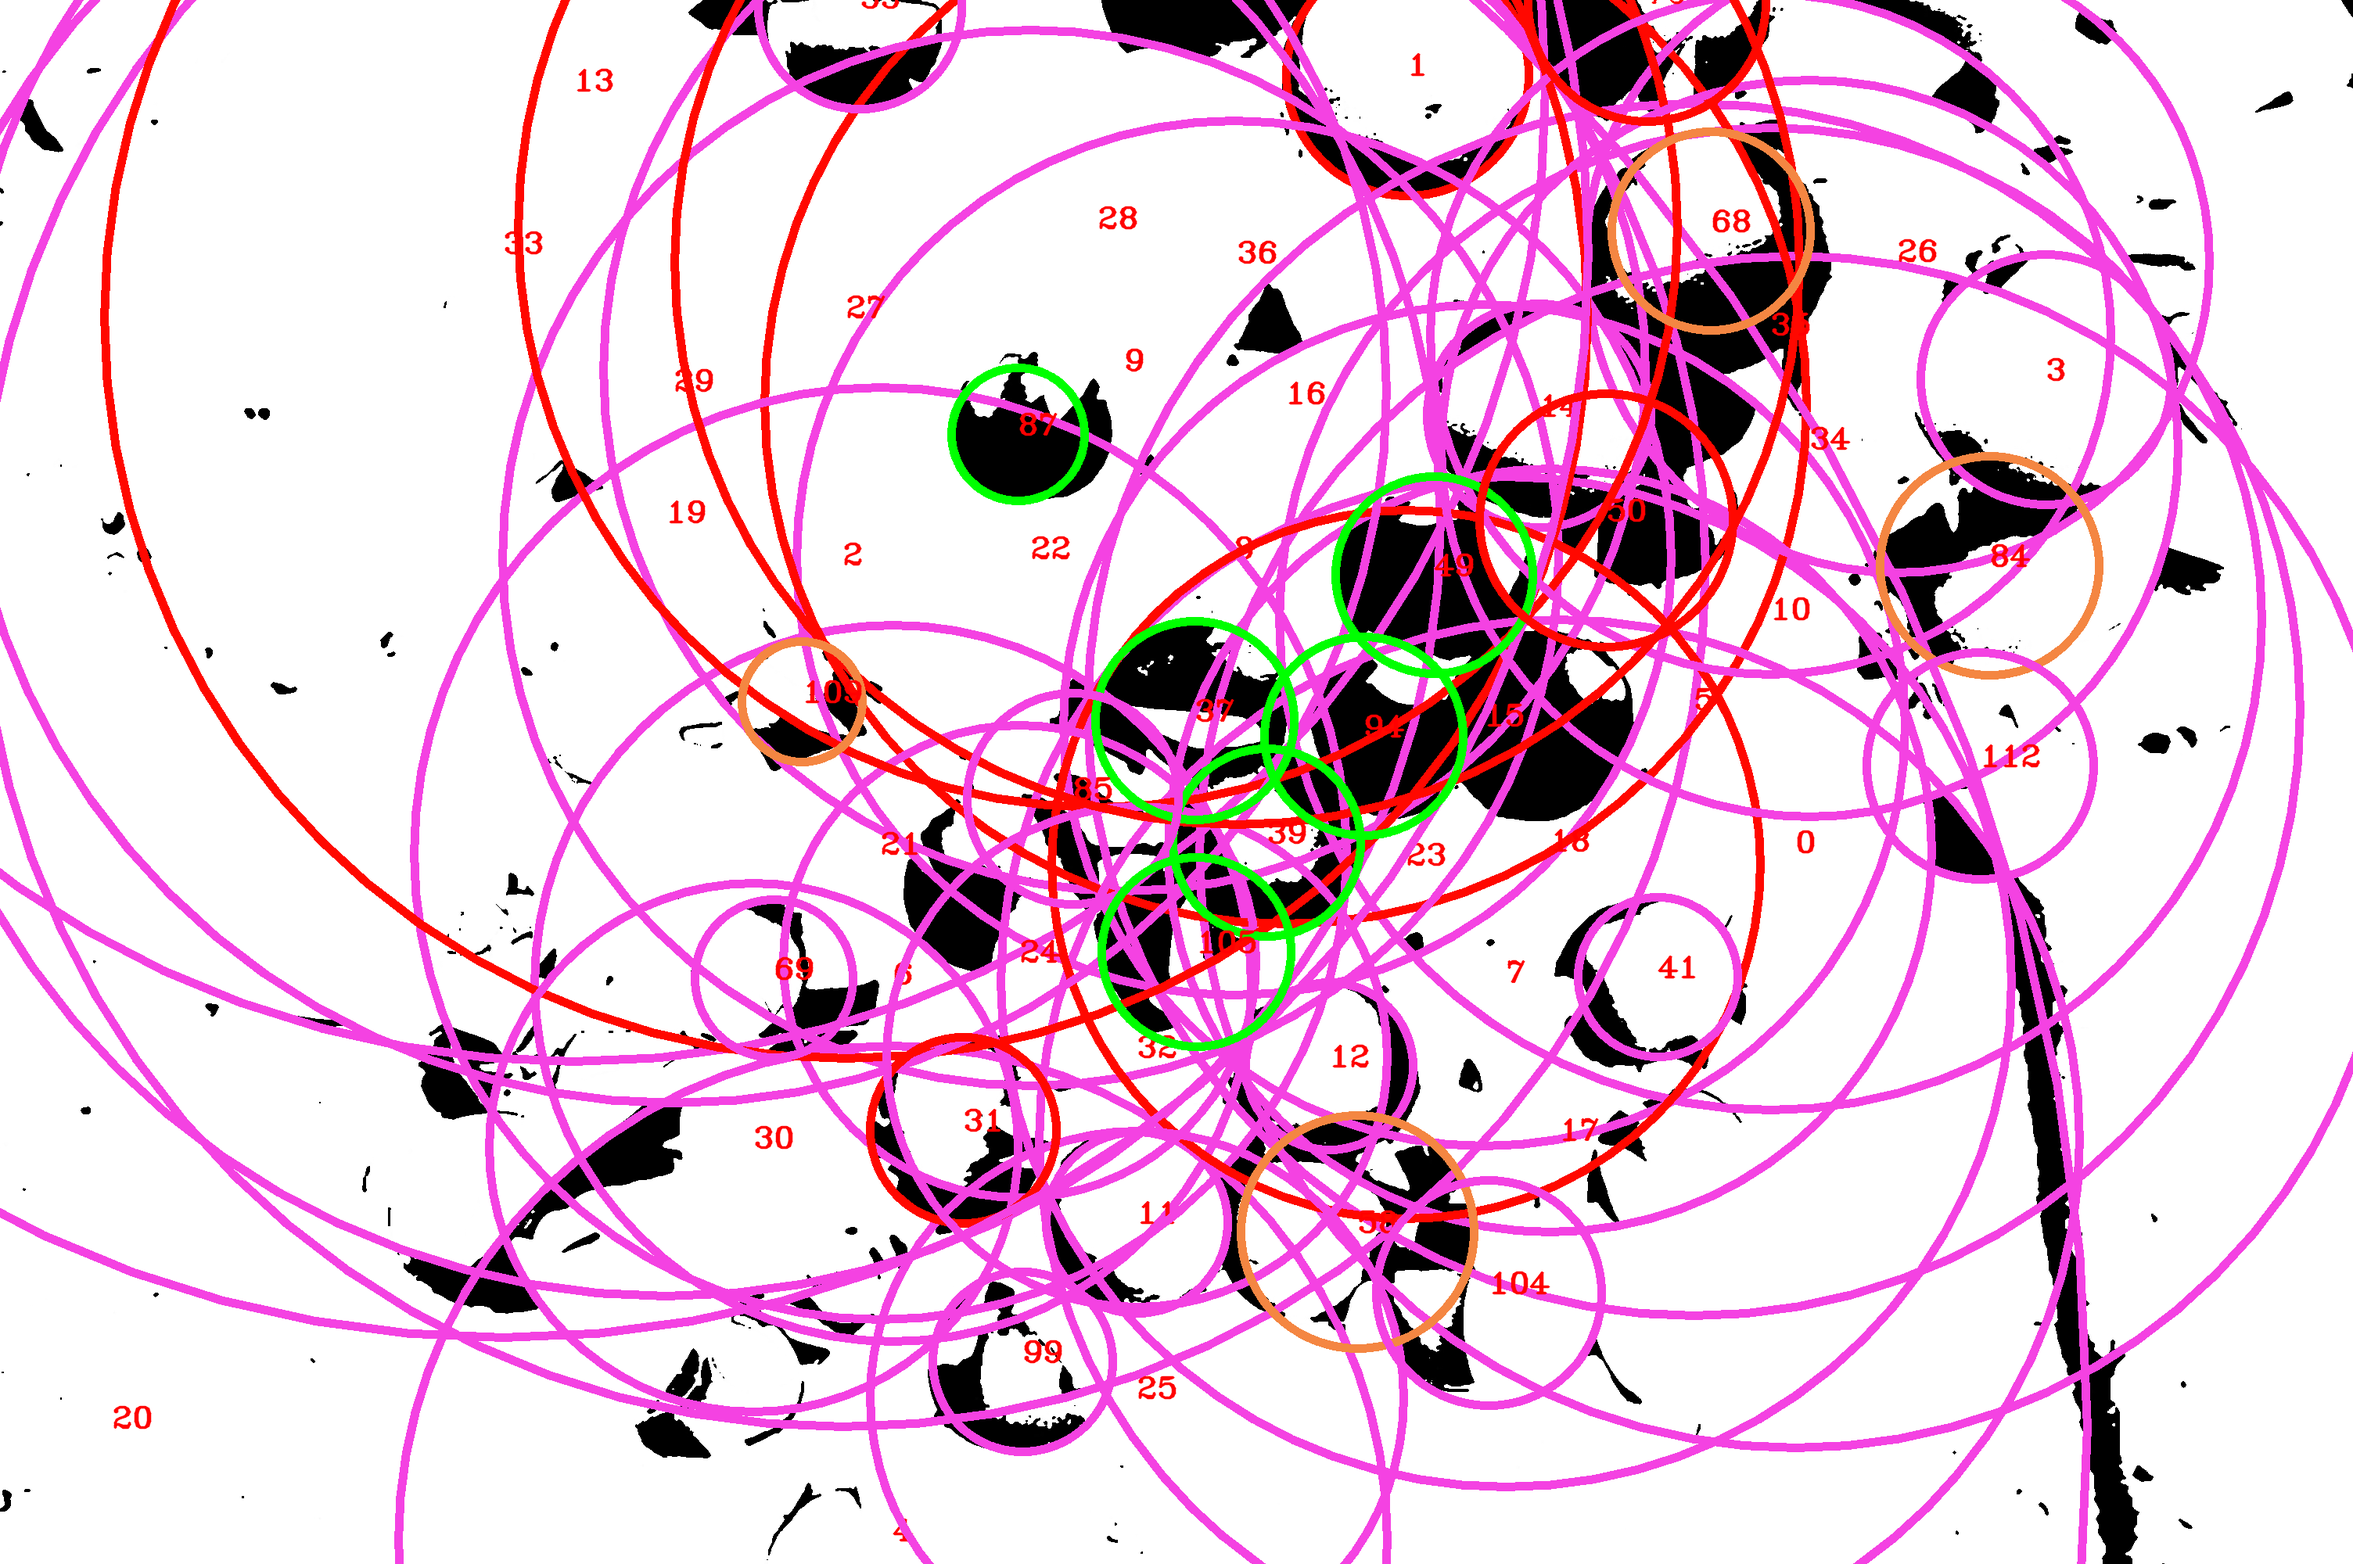
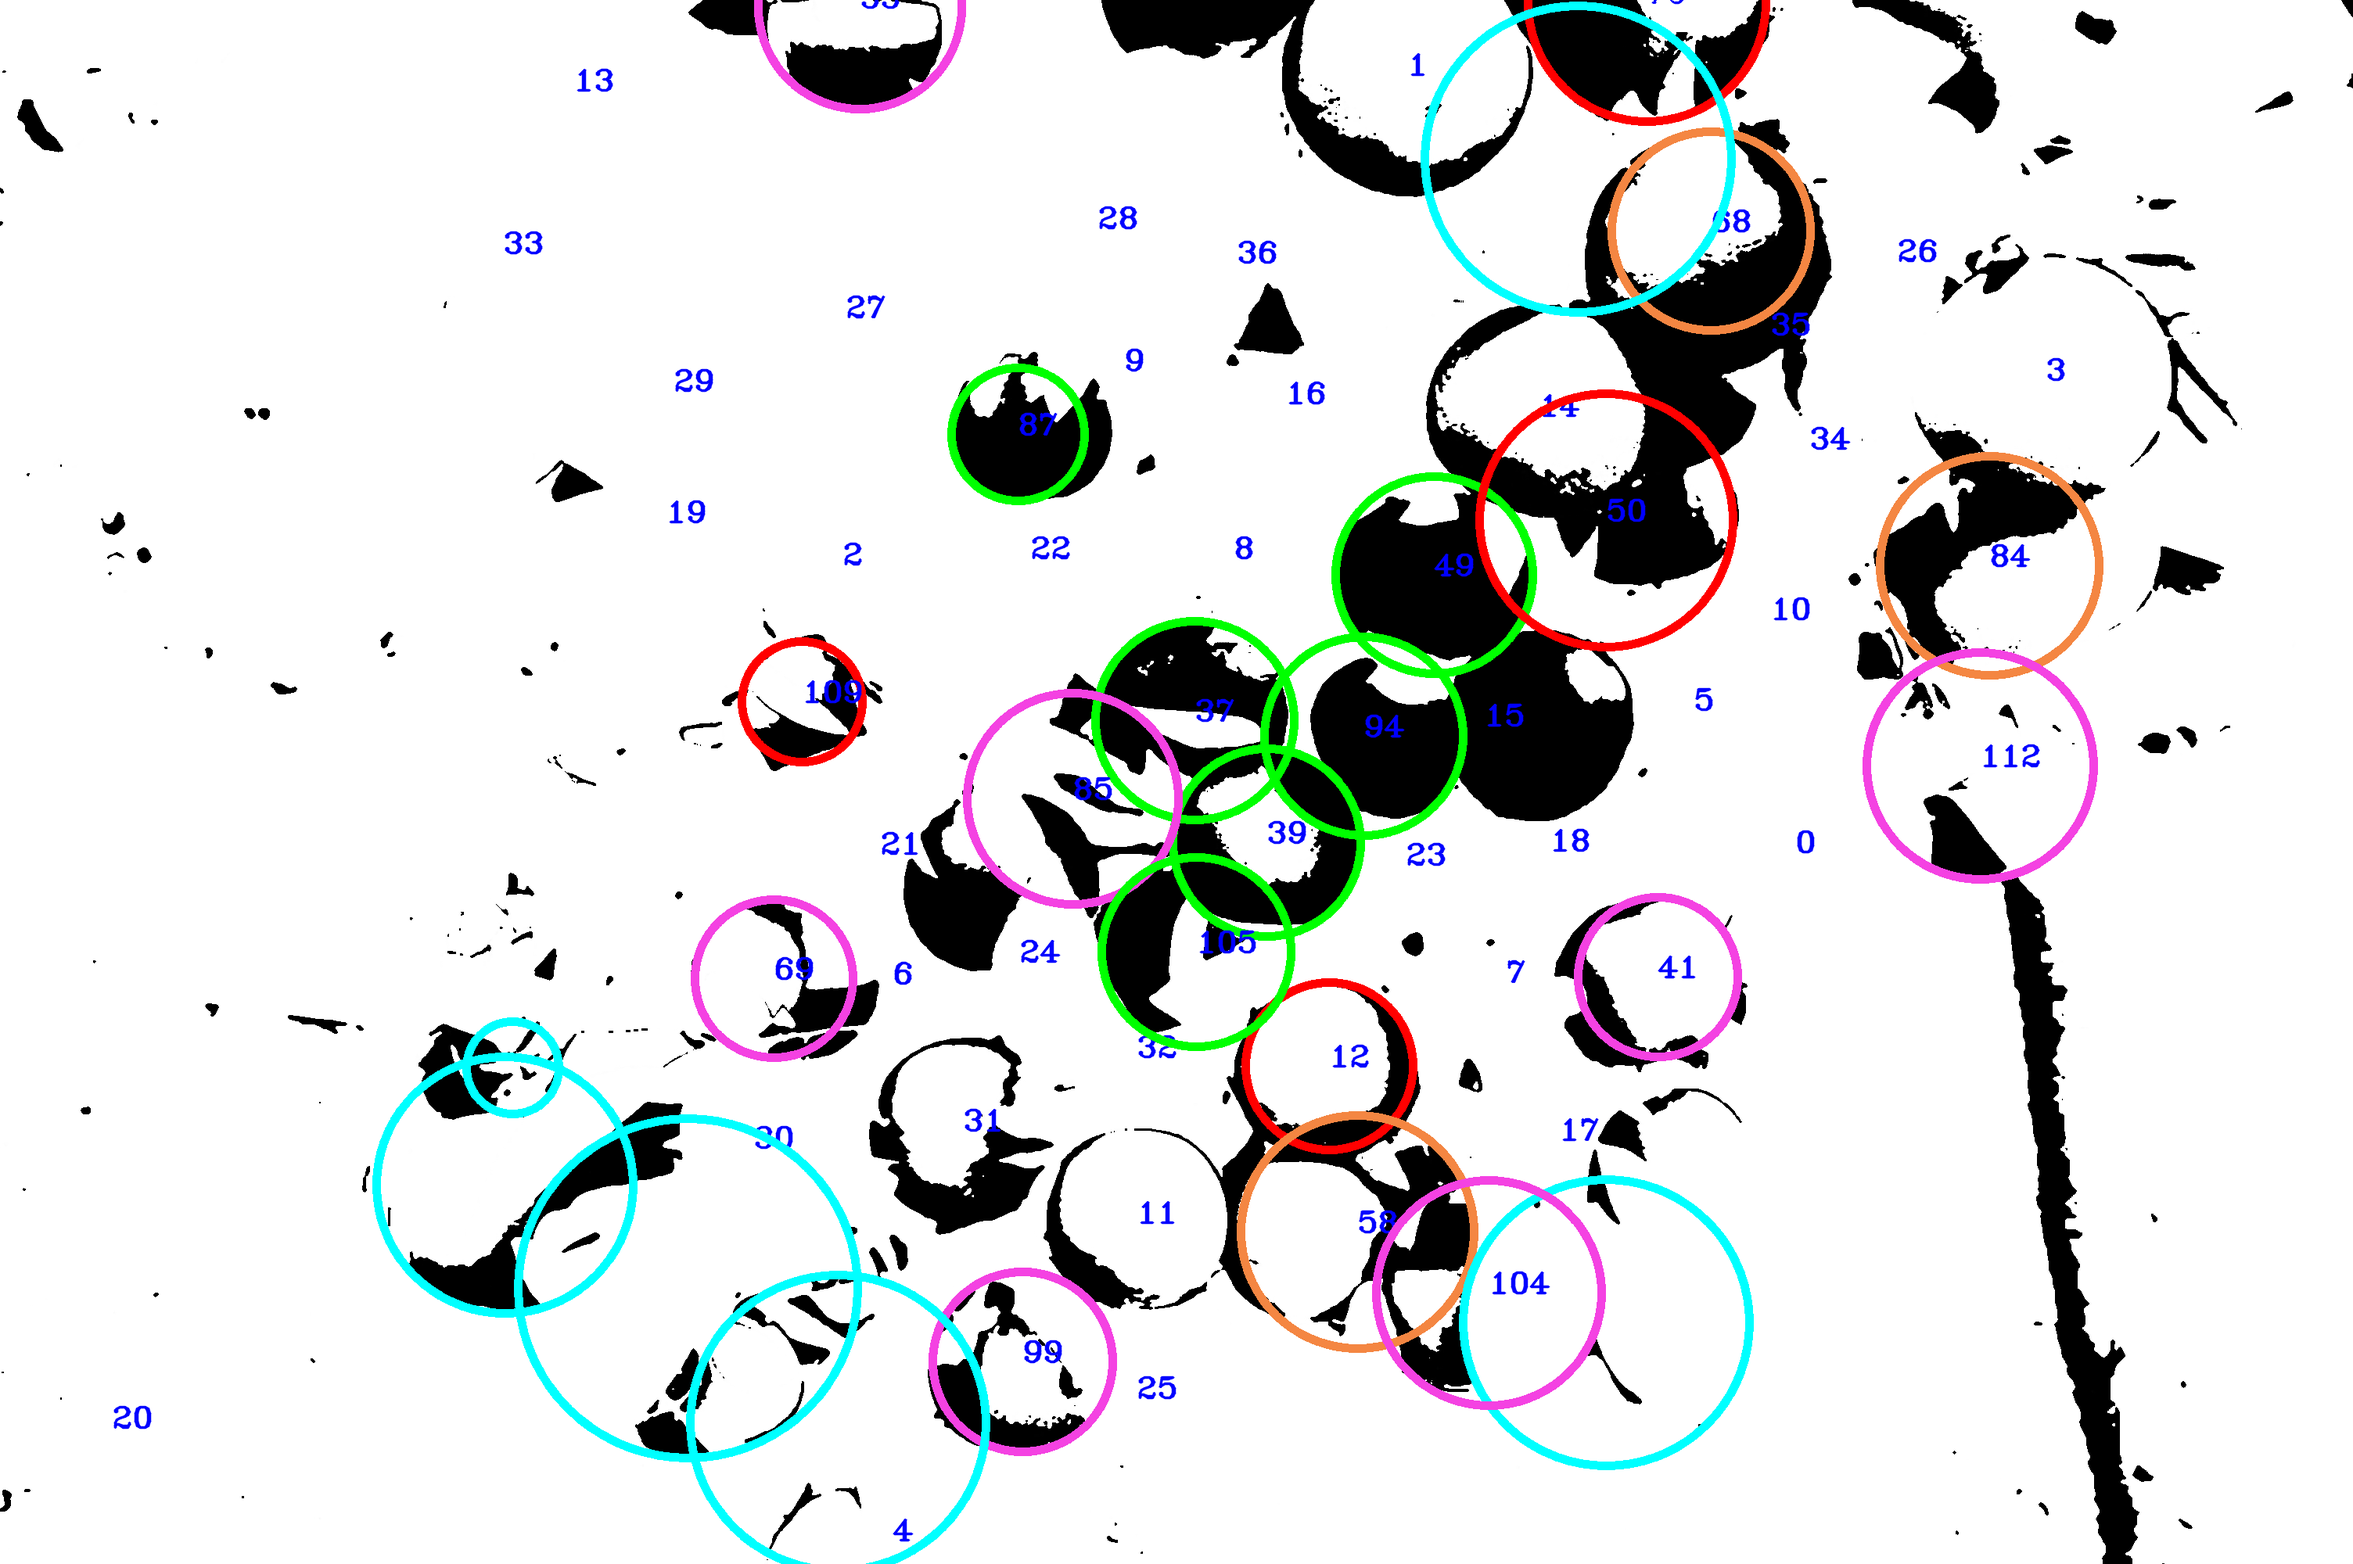
this is starting to be a mess

diff --git a/circles.py b/circles.py
@@ -1,4 +1,4 @@
-#!/usr/bin/python3
+#!/usr/local/bin/python
 
 
 ##
@@ -11,6 +11,14 @@
 import os
 import cv2
 import numpy as np
+
+
+BLUE = (255, 0, 0)
+GREEN = (0, 255, 0)
+ORANGE = (66, 134, 244)
+PURPLE = (226, 66, 244)
+RED = (0, 0, 255)
+PINK= (255, 255, 0)
 
 
 
@@ -33,6 +41,9 @@ def circleCount(fname):
     averageR = 0
     for i in circles[0,:]:
 
+        if num == 12:
+            cv2.circle(cimg,(i[0],i[1]),i[2],RED,10)
+
 
         if  (averageR == 0) or (averageR != 0 and i[2] <= averageR*1.5 and  i[2] >= averageR*0.5):
 
@@ -51,31 +62,38 @@ def circleCount(fname):
                     averageR = (averageR + i[2]) / 2.0
 
                 # draw the outer circle
-                cv2.circle(cimg,(i[0],i[1]),i[2],(0,255,0),10)
-                cv2.circle(color,(i[0],i[1]),i[2],(0,255,0),10)
+                cv2.circle(cimg,(i[0],i[1]),i[2],GREEN,10)
+                cv2.circle(color,(i[0],i[1]),i[2],GREEN,10)
                 # draw the center of the circle
-                cv2.circle(color,(i[0],i[1]),2,(0,0,255),5)
+                cv2.circle(color,(i[0],i[1]),2,BLUE,5)
 
             elif ratio >= 30:
 
                 print(ratio)
-                if i[2] <= averageR*1.2 and  i[2] >= averageR*0.2:
+                if i[2] <= averageR*1.2 and  i[2] >= averageR*0.8:
 
-                    cv2.circle(cimg,(i[0],i[1]),i[2],(66, 134, 244),10)
-                    cv2.circle(color,(i[0],i[1]),i[2],(66, 134, 244),10)
+                    cv2.circle(cimg,(i[0],i[1]),i[2],ORANGE,10)
+                    cv2.circle(color,(i[0],i[1]),i[2],ORANGE,10)
                     # draw the center of the circle
-                    cv2.circle(color,(i[0],i[1]),2,(0,0,255),5)
+                    cv2.circle(color,(i[0],i[1]),2,BLUE,5)
 
-                else:
-                    cv2.circle(cimg,(i[0],i[1]),i[2],(0, 8, 255),10)
+                elif i[2] <= averageR*1.4:
+                    cv2.circle(cimg,(i[0],i[1]),i[2],RED,10)
             else:
 
                 print(ratio)
-                cv2.circle(cimg,(i[0],i[1]),i[2],(226, 66, 244),10)
+
+
+
+                if i[2] <= averageR*1.3:
+                    cv2.circle(cimg,(i[0],i[1]),i[2],PURPLE,10)
 
             # write the circle number
-            cv2.putText(cimg,str(num),(i[0],i[1]), cv2.FONT_HERSHEY_COMPLEX_SMALL , 2,(0,0,255),2,cv2.LINE_AA)
+            cv2.putText(cimg,str(num),(i[0],i[1]), cv2.FONT_HERSHEY_COMPLEX_SMALL , 2,BLUE,2,cv2.LINE_AA)
 
+        else:
+            if i[2] <= averageR*1.8 and  i[2] >= averageR*0.2:
+                cv2.circle(cimg,(i[0],i[1]),i[2],PINK,10)
         num +=1
 
 

diff --git a/a2.py b/a2.py
@@ -75,19 +75,6 @@ def varianceFilter(fname):
     g[(ndi == 0) & (mean == 0) & (cr == 0) & (cb == 255)] = 0
     r[(ndi == 0) & (mean == 0) & (cr == 0) & (cb == 255)] = 0
 
-   # gray_threshold
-    # for k in range(0, img.shape[0]):
-    #     for i in range(0, img.shape[1]):
-
-    #         if ndi[k, i] == 0 and mean[k, i] == 0 and cr[k, i] == 0 and cb[k, i] == 255:
-    #             mask[k, i] = 0
-    #             b[k, i] = 0
-    #             g[k, i] = 0
-    #             r[k, i] = 0
-
-
-
-
 
     if not os.path.exists('results'):
         os.makedirs('results')
